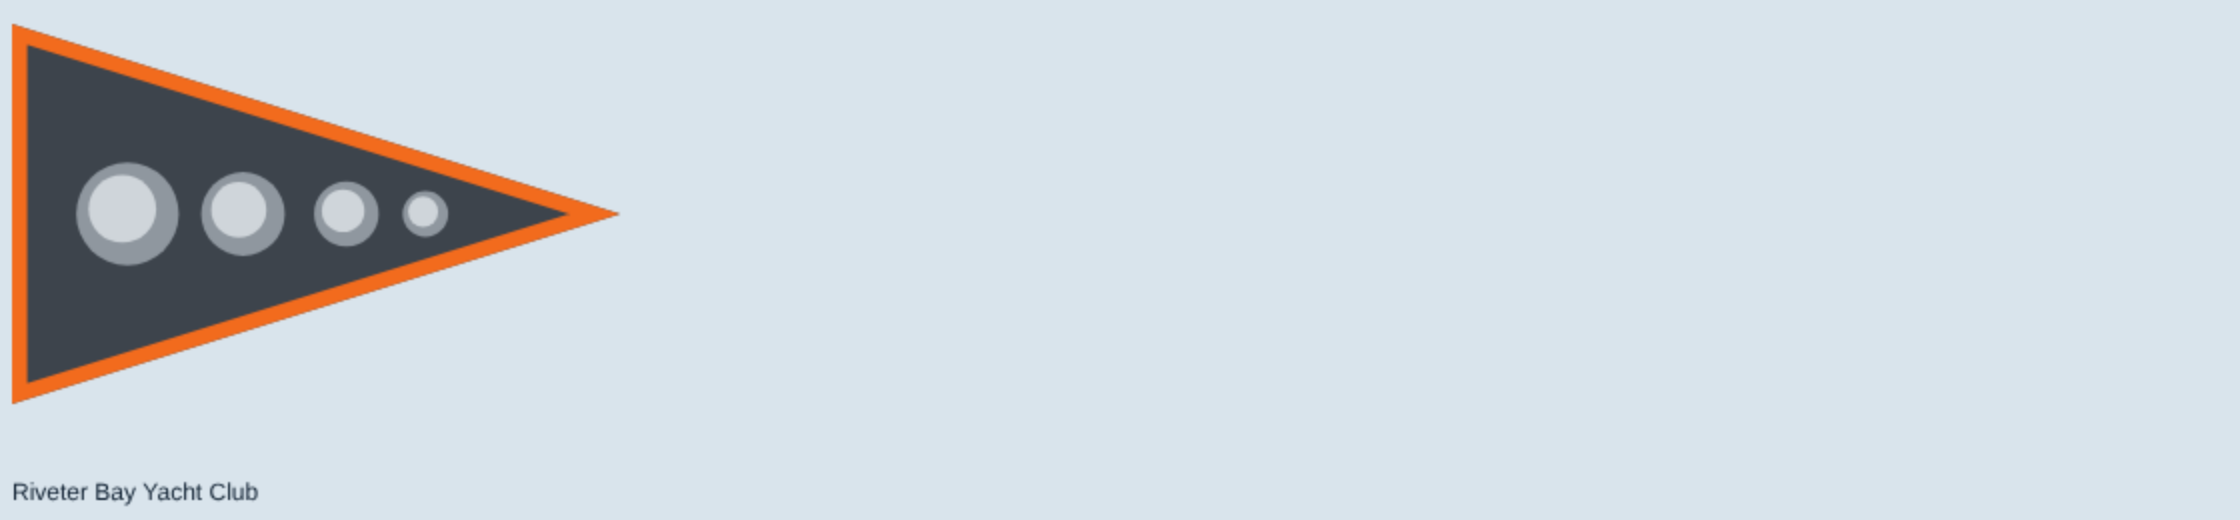
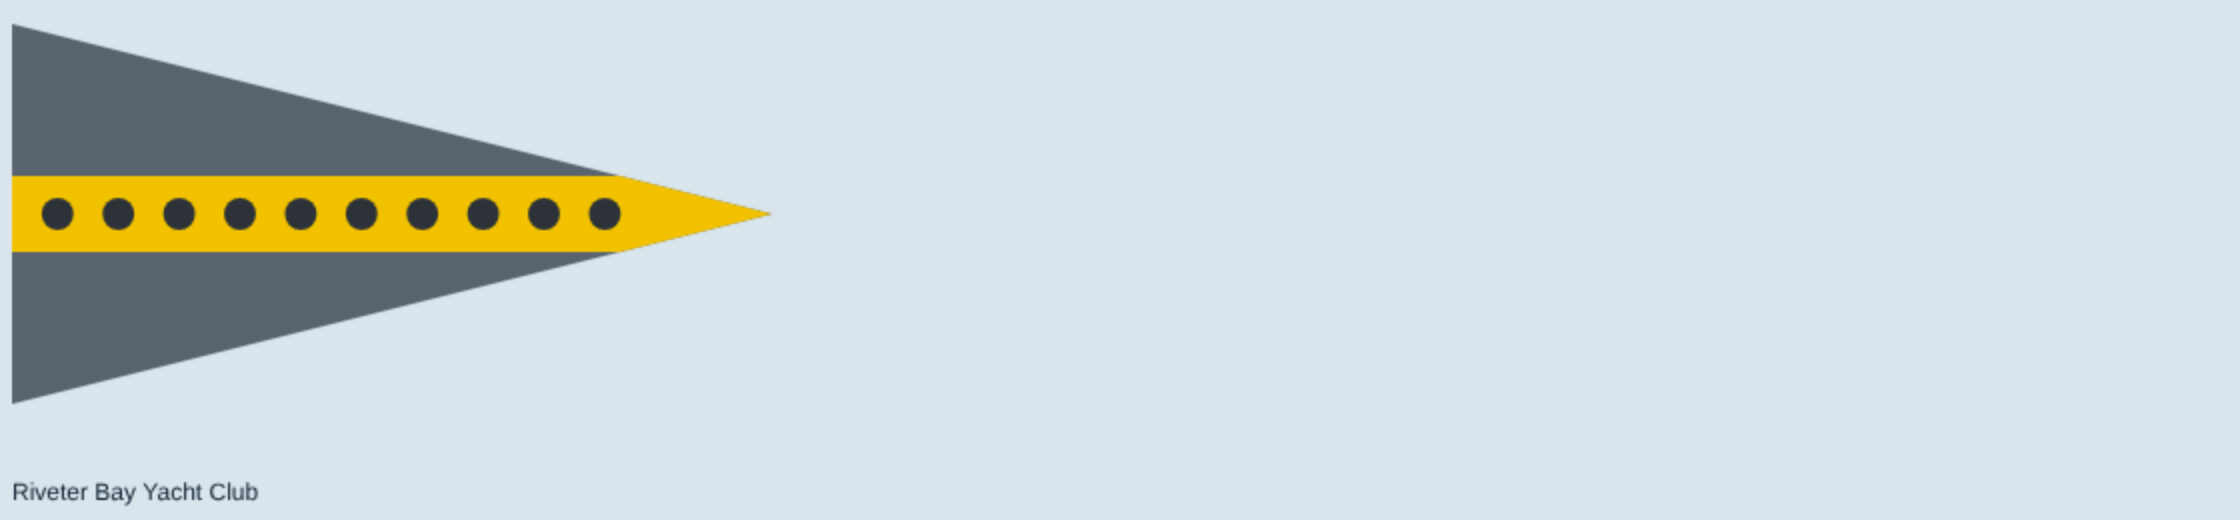
Burgees: Riveter Bay back to the gray and yellow-band design, a darker gray, rivets the whole way along the band
Claude-Session: https://claude.ai/code/session_012Uu5QjYRsEpBxuz7xgHWhs

Changed region(s): [[0.0, 0.0308, 0.3438, 0.7692]]

diff --git a/src/render/burgeeArt.ts b/src/render/burgeeArt.ts
@@ -160,9 +160,9 @@ export const PARODY_BURGEES: Burgee[] = [
   { id: 'spyc', shape: 'pennant', ratio: 1.6, // modern, minimal: mountain gray and blue; one white ridge
     draw: (g, W, H) => { fill(g, W, H, '#6e7a85'); rect(g, '#2f6fb5', 0, 0, W, H * 0.38); poly(g, WHITE, [W * 0.06, H * 0.7], [W * 0.15, H * 0.4], [W * 0.22, H * 0.56], [W * 0.31, H * 0.34], [W * 0.42, H * 0.7]); } },
   // ---- Tier 2 (no guidance in the file)
-  { id: 'mbyc', shape: 'pennant', ratio: 1.6, // Riveter Bay: dark steel gray, a thin safety-orange line inside the cut, one row of big domed rivets that shrink toward the point
-    draw: (g, W, H) => { fill(g, W, H, '#3d444c'); border(g, W, H, 'pennant', '#f26b1d', 0.04);
-      [[0.19, 0.135], [0.38, 0.11], [0.55, 0.085], [0.68, 0.06]].forEach(([x, r]) => { dot(g, '#8f979f', W * x, H * 0.5, H * r); dot(g, '#cfd5da', W * x - H * r * 0.1, H * 0.5 - H * r * 0.1, H * r * 0.66); }); } },
+  { id: 'mbyc', shape: 'pennant', ratio: 2, // Riveter Bay: dark steel gray with a safety-yellow band, and a row of rivets the whole way along the band
+    draw: (g, W, H) => { fill(g, W, H, '#59646f'); rect(g, '#f2c200', 0, H * 0.4, W, H * 0.2);
+      for (let i = 0; i < 10; i++) dot(g, '#2c3238', W * (0.06 + i * 0.08), H * 0.5, H * 0.042); } },
   { id: 'slyc', shape: 'pennant', ratio: 1.67, // dark green with two cherries
     draw: (g, W, H) => { fill(g, W, H, '#124d33'); stroke(g, '#7fc050', H * 0.06, [W * 0.1, H * 0.58], [W * 0.17, H * 0.28], [W * 0.24, H * 0.58]); dot(g, '#c3122f', W * 0.1, H * 0.6, H * 0.13); dot(g, '#c3122f', W * 0.24, H * 0.6, H * 0.13); } }
 ];
